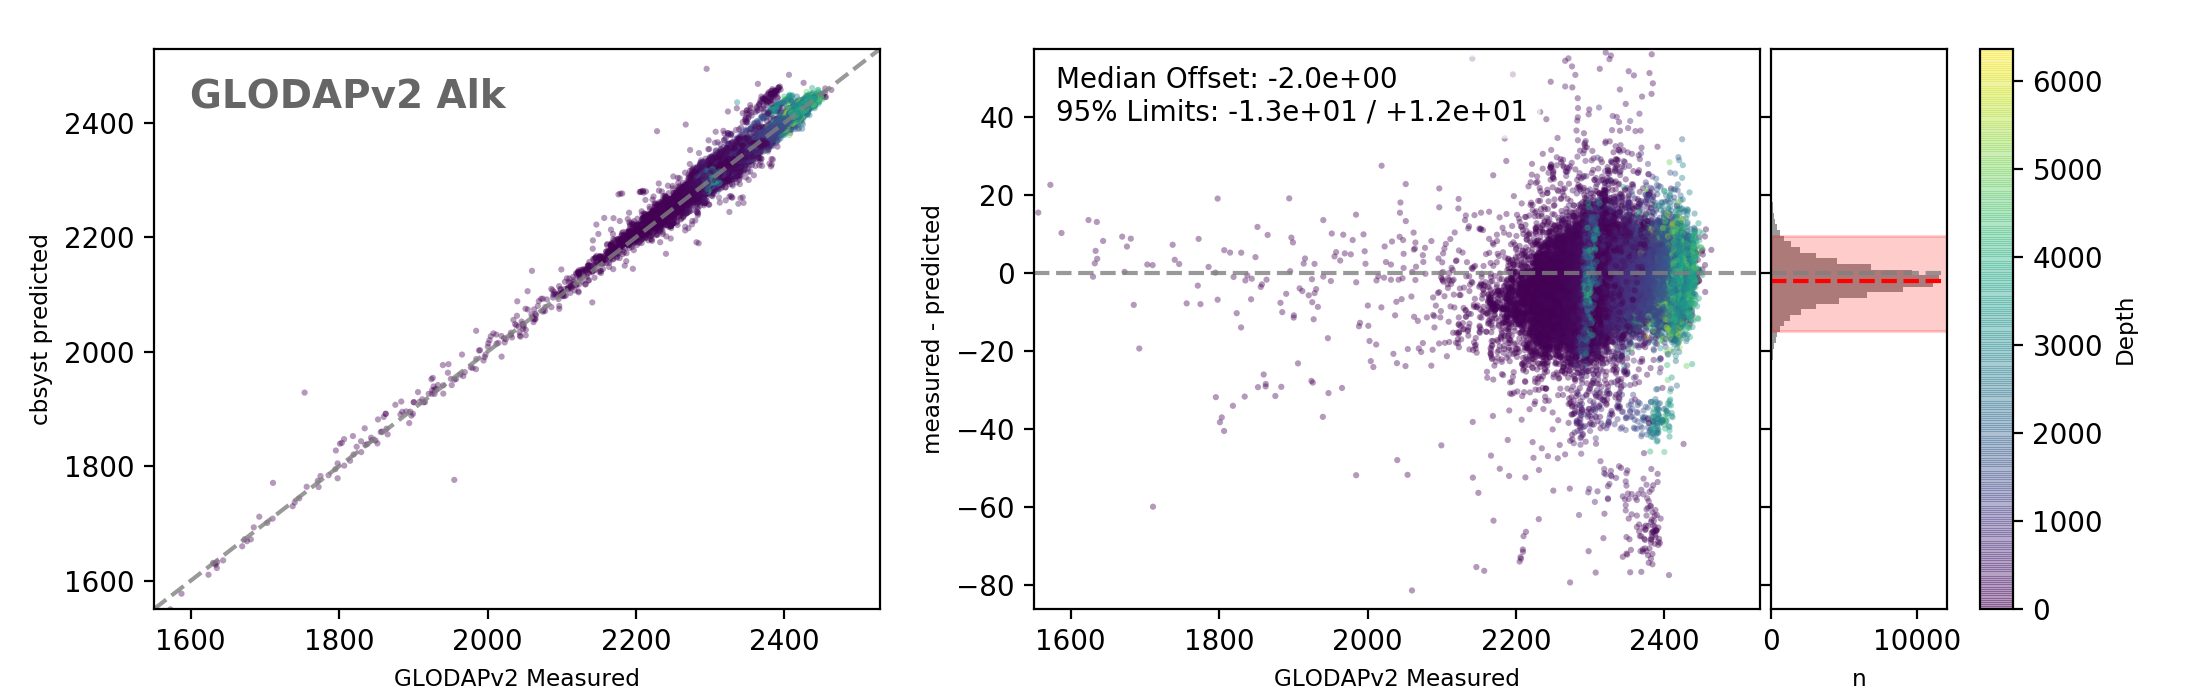
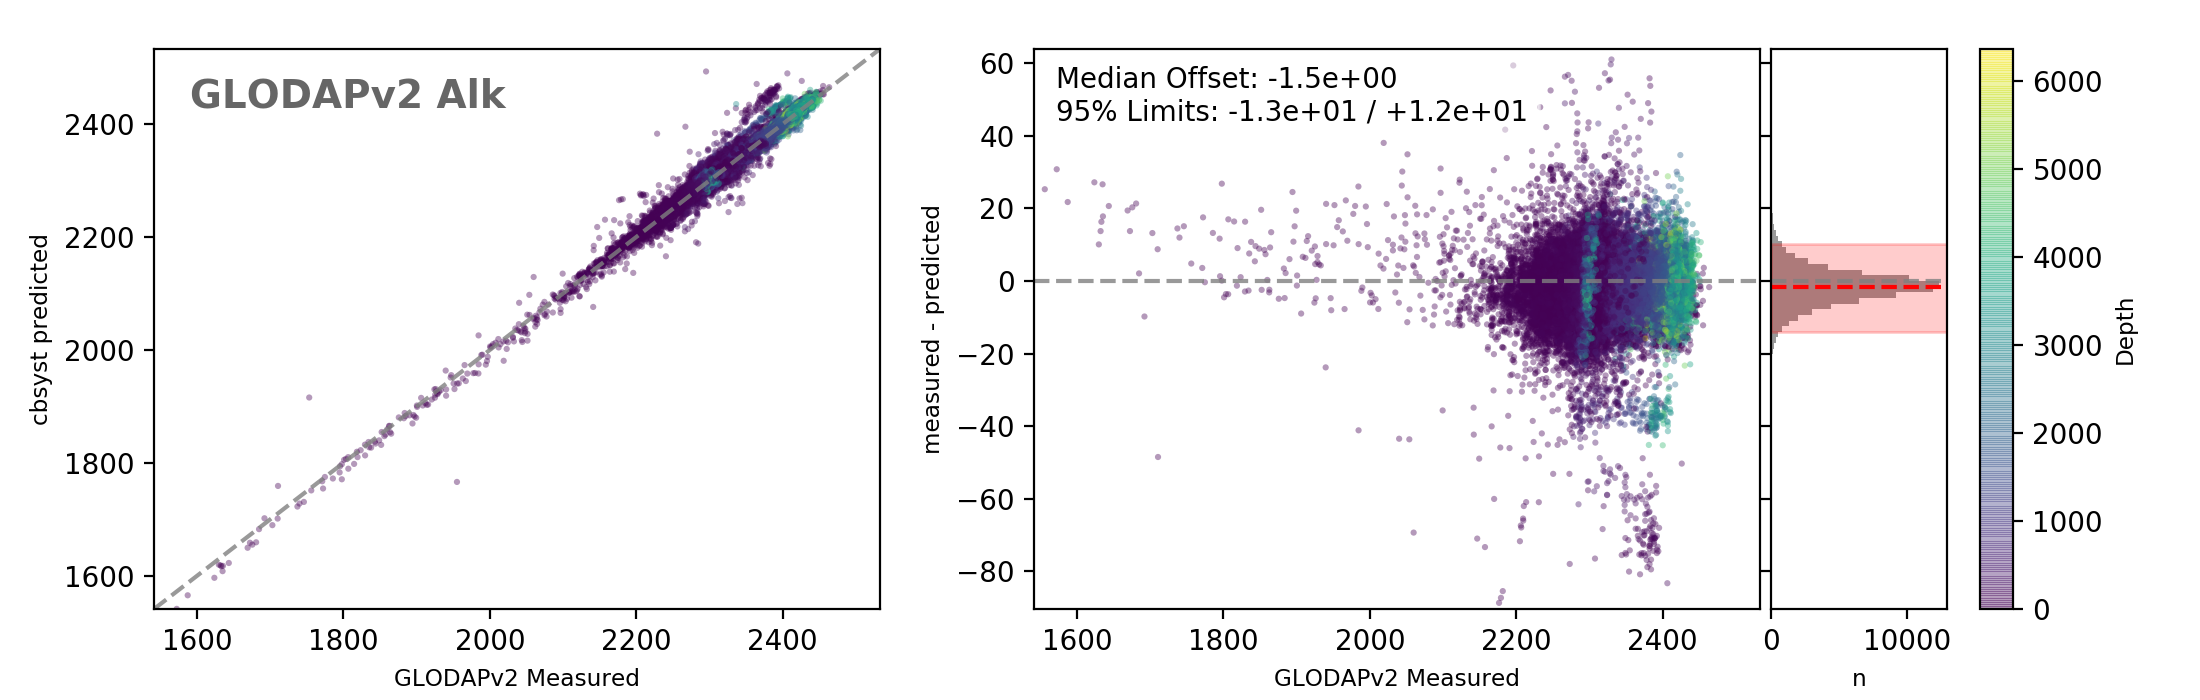
Update GLODAP plots

diff --git a/README.md b/README.md
@@ -41,13 +41,13 @@ The code used to process the raw GLODAPv2 data is available [here](cbsyst/test_d
 Next, calculate the carbonate system from sets of two of the measured carbonate parameters, and compare the calculated third parameter to the measured third parameter (i.e. calculate Alkalinity from pH and DIC, then compared calculated vs. measured Alkalinities). The code for making these comparison plots is [here](cbsyst/test_data/GLODAP_data/plot_GLODAPv2_comparison.py).
 
 ### Results:
-**Predicted pH** (from DIC and Alkalinity) is offset from measured values by -0.0053 (-0.03/+0.03).
+**Predicted pH** (from DIC and Alkalinity) is offset from measured values by -0.0041 (-0.031/+0.029).
 ![Calculated vs Measured pH](cbsyst/test_data/GLODAP_data/Figures/pH_comparison.png)
 
-**Predicted Alkalinity** (from pH and DIC) is offset from measured values by -2 (-13/+12) umol/kg.
+**Predicted Alkalinity** (from pH and DIC) is offset from measured values by -1.5 (-13/+12) umol/kg.
 ![Calculated vs Measured TA](cbsyst/test_data/GLODAP_data/Figures/TA_comparison.png)
 
-**Predicted DIC** (from pH and Alkalinity) is offset from measured values by 1.9 (-11/+12) umol/kg.
+**Predicted DIC** (from pH and Alkalinity) is offset from measured values by 1.5 (-11/+12) umol/kg.
 ![Calculated vs Measured DIC](cbsyst/test_data/GLODAP_data/Figures/DIC_comparison.png)
 
 Reported statistics are median ±95% confidence intervals extracted from the residuals (n = 97,963).
